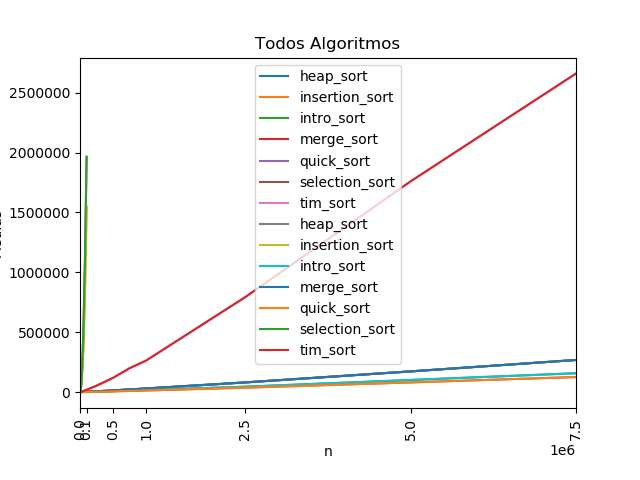
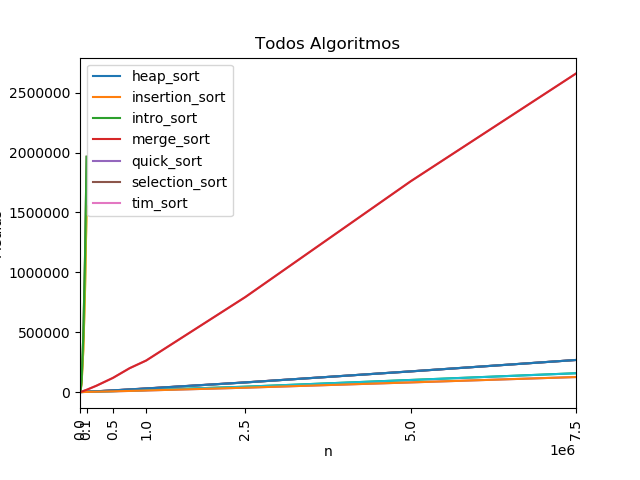
correções para usar no latex e correção legenda do grafico

diff --git a/scripts.py b/scripts.py
@@ -59,7 +59,7 @@ def create_csv_and_graphics_with_media():
 
     for alg in algs:
         arq_saida = open(f"csv_graphics_media/{alg}.csv", "w")
-        arq_saida.write("n,Média,Mínimo,Máximo\n")
+        arq_saida.write("n,Media,Minimo,Maximo\n")
         arqs = os.listdir(f"testes/{alg}")
         arqs.sort(key=lambda x: (x[8], x[5]))
 
@@ -108,7 +108,6 @@ def create_csv_and_graphics_with_media():
         plt.xticks([0, 100000, 500000, 1000000, 2500000, 5000000, 7500000], rotation='vertical')
         plt.ticklabel_format(axis="x", style="sci", scilimits=(0, 0))
         plt.plot(tamanho_arq[:len(medias)], medias, label=alg)
-        plt.legend()
         plt.savefig("csv_graphics_media/all.png")
 
 
